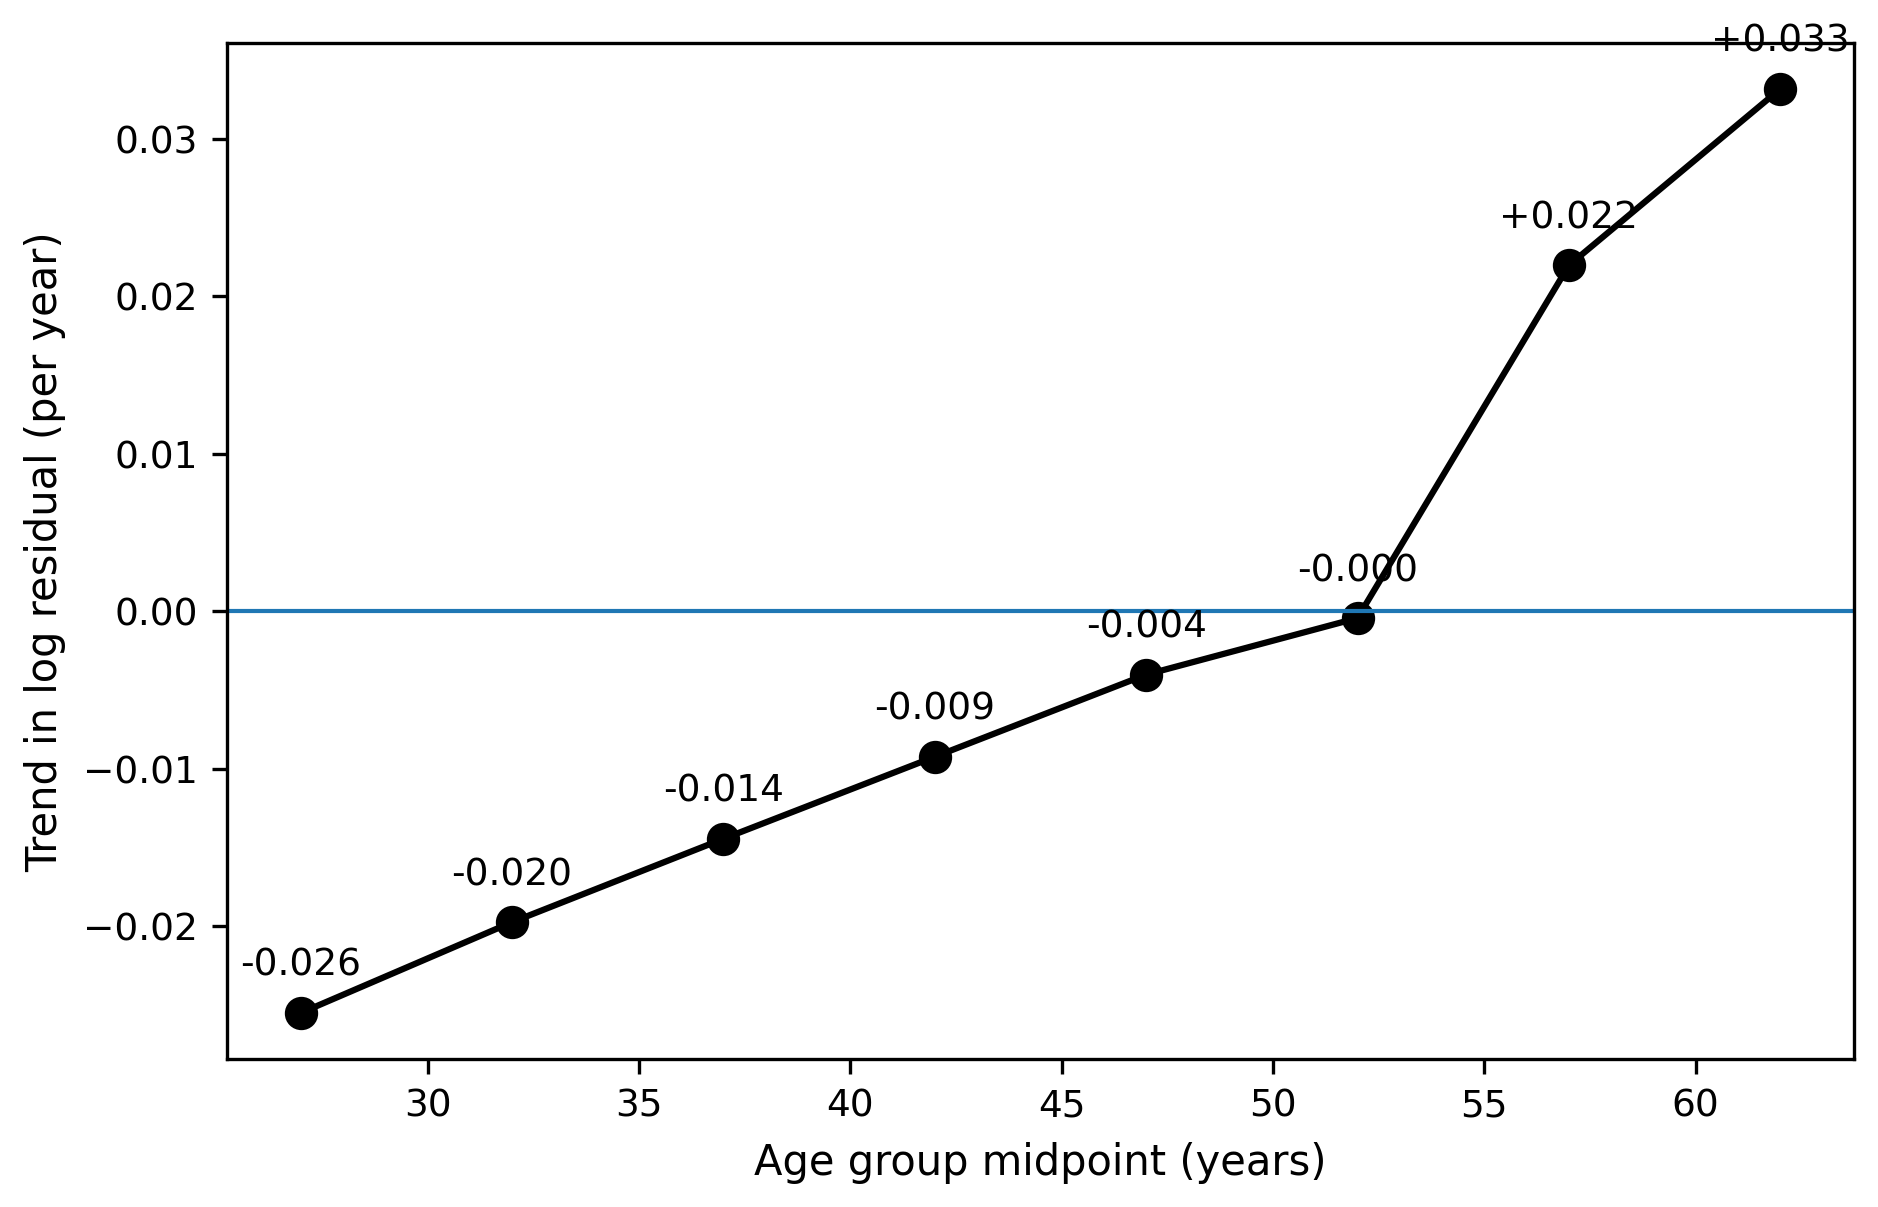
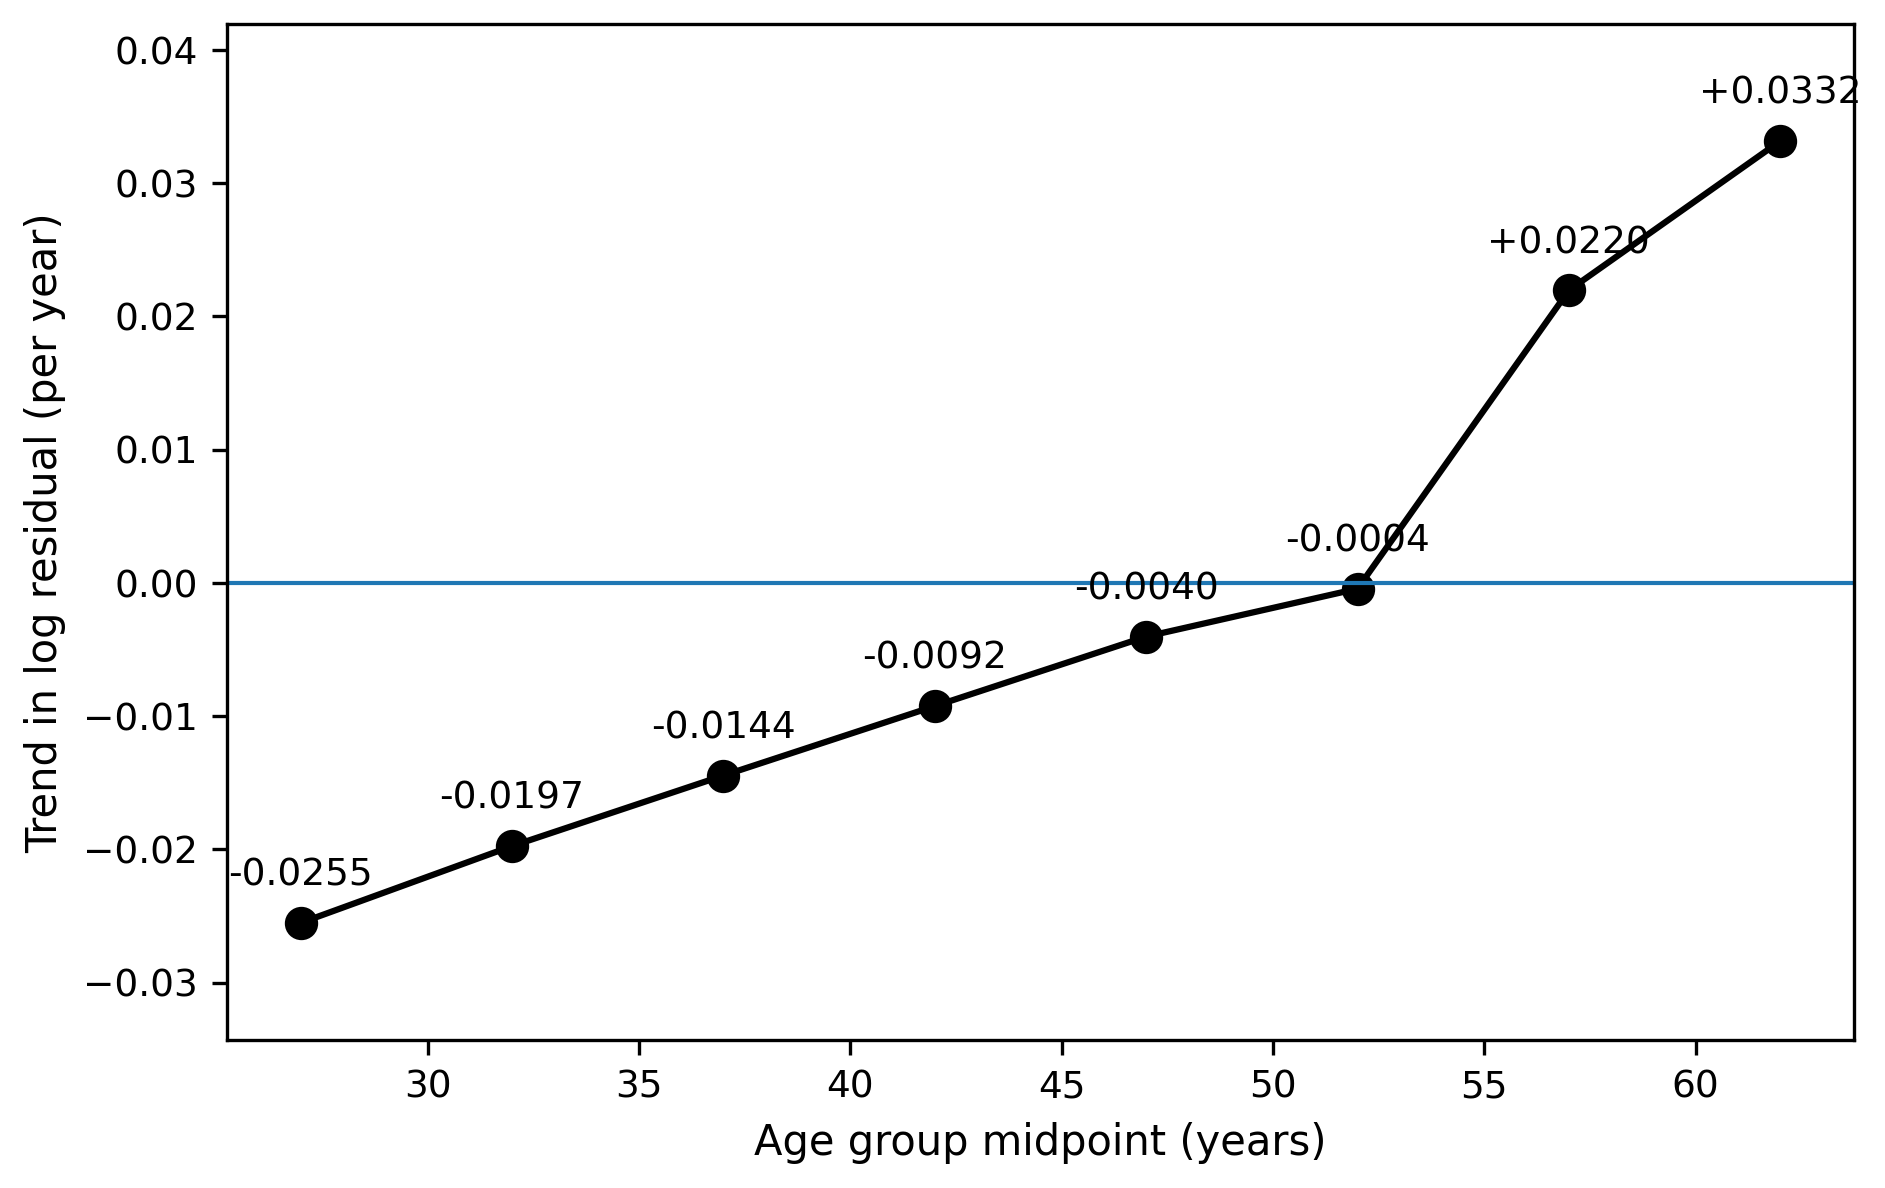
Update final analysis pipeline and outputs

diff --git a/dissertation_analysis_final.py b/dissertation_analysis_final.py
@@ -2760,7 +2760,7 @@ ax.axvspan(
     2016,
     color="red",
     alpha=0.12,
-    label="registry break (colorectal)",
+    label="2013–2016 discontinuity (colorectal)",
 )
 
 ax.set_xlabel("SEER release (year)")
@@ -2829,7 +2829,7 @@ for nm, l0, k0, c in (
         color=c,
         label=(
             f"{nm} "
-            f"(k={k0:.2f}, lambda={l0:.5f})"
+            rf"($k$={k0:.2f}, $\lambda$={l0:.5f})"
         ),
     )
 
@@ -3050,7 +3050,7 @@ print("  ✓ Table 3.1 uses d log F / d log x")
 print("  ✓ Figures 3.3–3.4 use the same S(x)")
 print("  ✓ ΔLLA uses the same S(x)")
 print("  ✓ Tables 3.2–3.3 use the same ΔLLA")
-print("  ✓ Table 3.4 uses unshifted DevCan ages")
+print("  ✓ Table 3.4 uses corrected colorectal ages (label + 5)")
 print("  ✓ Chapter 3 internal consistency checks passed")
 
 # =====================================================================
@@ -4101,6 +4101,11 @@ for i, value in enumerate(values):
         ha="center",
     )
 
+ax.set_ylim(
+    0,
+    values.max() * 1.12,
+)
+
 ax.set_ylabel(
     r"$\Delta$AIC$_c$"
 )
@@ -4373,7 +4378,7 @@ for midpoint, value in zip(
 ):
 
     ax.annotate(
-        f"{value:+.3f}",
+        f"{value:+.4f}",
         (
             midpoint,
             value,
@@ -4387,6 +4392,10 @@ for midpoint, value in zip(
 ax.axhline(
     0,
     lw=1,
+)
+
+ax.margins(
+    y=0.15
 )
 
 ax.set_xlabel(
@@ -6130,6 +6139,10 @@ image = ax.imshow(
     vmax=100,
 )
 
+# column of the true mechanism for each row:
+# lead, lead, stages, uniform
+TRUE_COL = [0, 0, 1, 3]
+
 for i in range(
     CONFUSION.shape[0]
 ):
@@ -6140,10 +6153,10 @@ for i in range(
         ax.text(
             j,
             i,
-            f"{CONFUSION[i, j]:.0f}",
+            f"{CONFUSION[i, j]:.1f}",
             ha="center",
             va="center",
-            fontsize=13,
+            fontsize=12,
             color=(
                 "white"
                 if CONFUSION[i, j] > 50
@@ -6151,7 +6164,7 @@ for i in range(
             ),
             fontweight=(
                 "bold"
-                if i == j
+                if j == TRUE_COL[i]
                 else None
             ),
         )
@@ -6174,9 +6187,12 @@ ax.set_yticks(
 )
 
 ax.set_yticklabels(
-    list(
-        SCENARIOS
-    )
+    [
+        r"lead $\Delta = 3$",
+        r"lead $\Delta = 18$",
+        r"stages $j = 1.6$",
+        r"uniform $\beta = 0.30$",
+    ]
 )
 
 ax.grid(
@@ -6194,7 +6210,7 @@ ax.set_ylabel(
 ax.set_title(
     f"Share of runs, % "
     f"({N_BOOT_SELECTION} per row, "
-    f"sigma={SIGMA:.3f})"
+    rf"$\sigma$ = {SIGMA:.3f})"
 )
 
 fig.colorbar(
